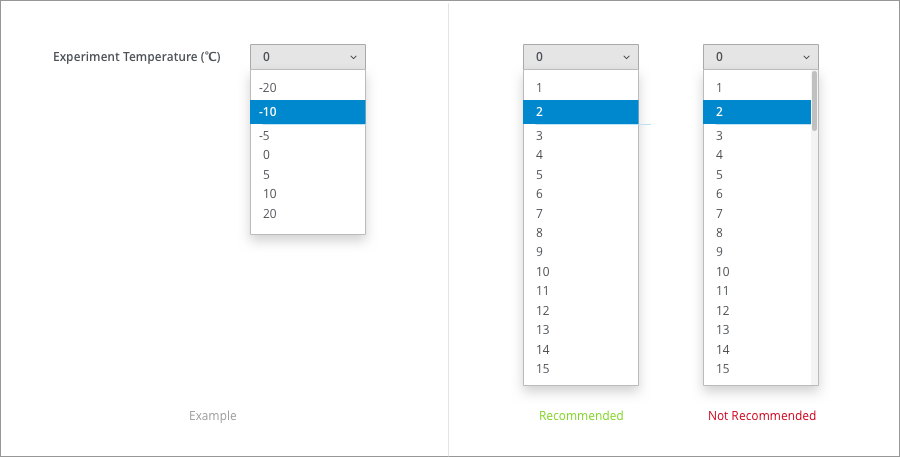
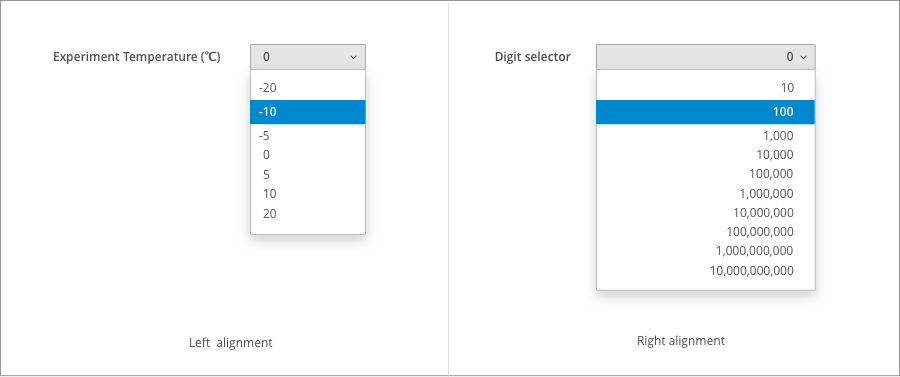
Update Selection list demo
updated the image to show right alignment of numeric values

diff --git a/pattern-library/forms-and-controls/data-input/design/overview.md b/pattern-library/forms-and-controls/data-input/design/overview.md
@@ -99,7 +99,8 @@ No matter edit state or view stats of common information form, user usually revi
 
 #### Right alignment
 On account of numbers right alignment, the numbers will be much more easier to be compared. Alignment of the decimal dot would make the data contrast clearer.
-Right alignment is important for pure numeric values and decimal values, in that the right supports the functional purpose of scanning for value rather than using a formatted field like date time or zip code. Right alignment would lend to the comparative scanning of numbers in tables as well, and  delineating the alignment as formatted field value like a date/time or zip code vs. a decimal based numeric value
+
+Right alignment is important for pure numeric values and decimal values, in that the right supports the functional purpose of scanning for value rather than using a formatted field like date time or zip code. Right alignment would lend to the comparative scanning of numbers in tables as well, and  delineating the alignment as formatted field value like a date/time or zip code vs. a decimal based numeric value.
 
 ![Right alignment](img/right-alignment.png)
 
